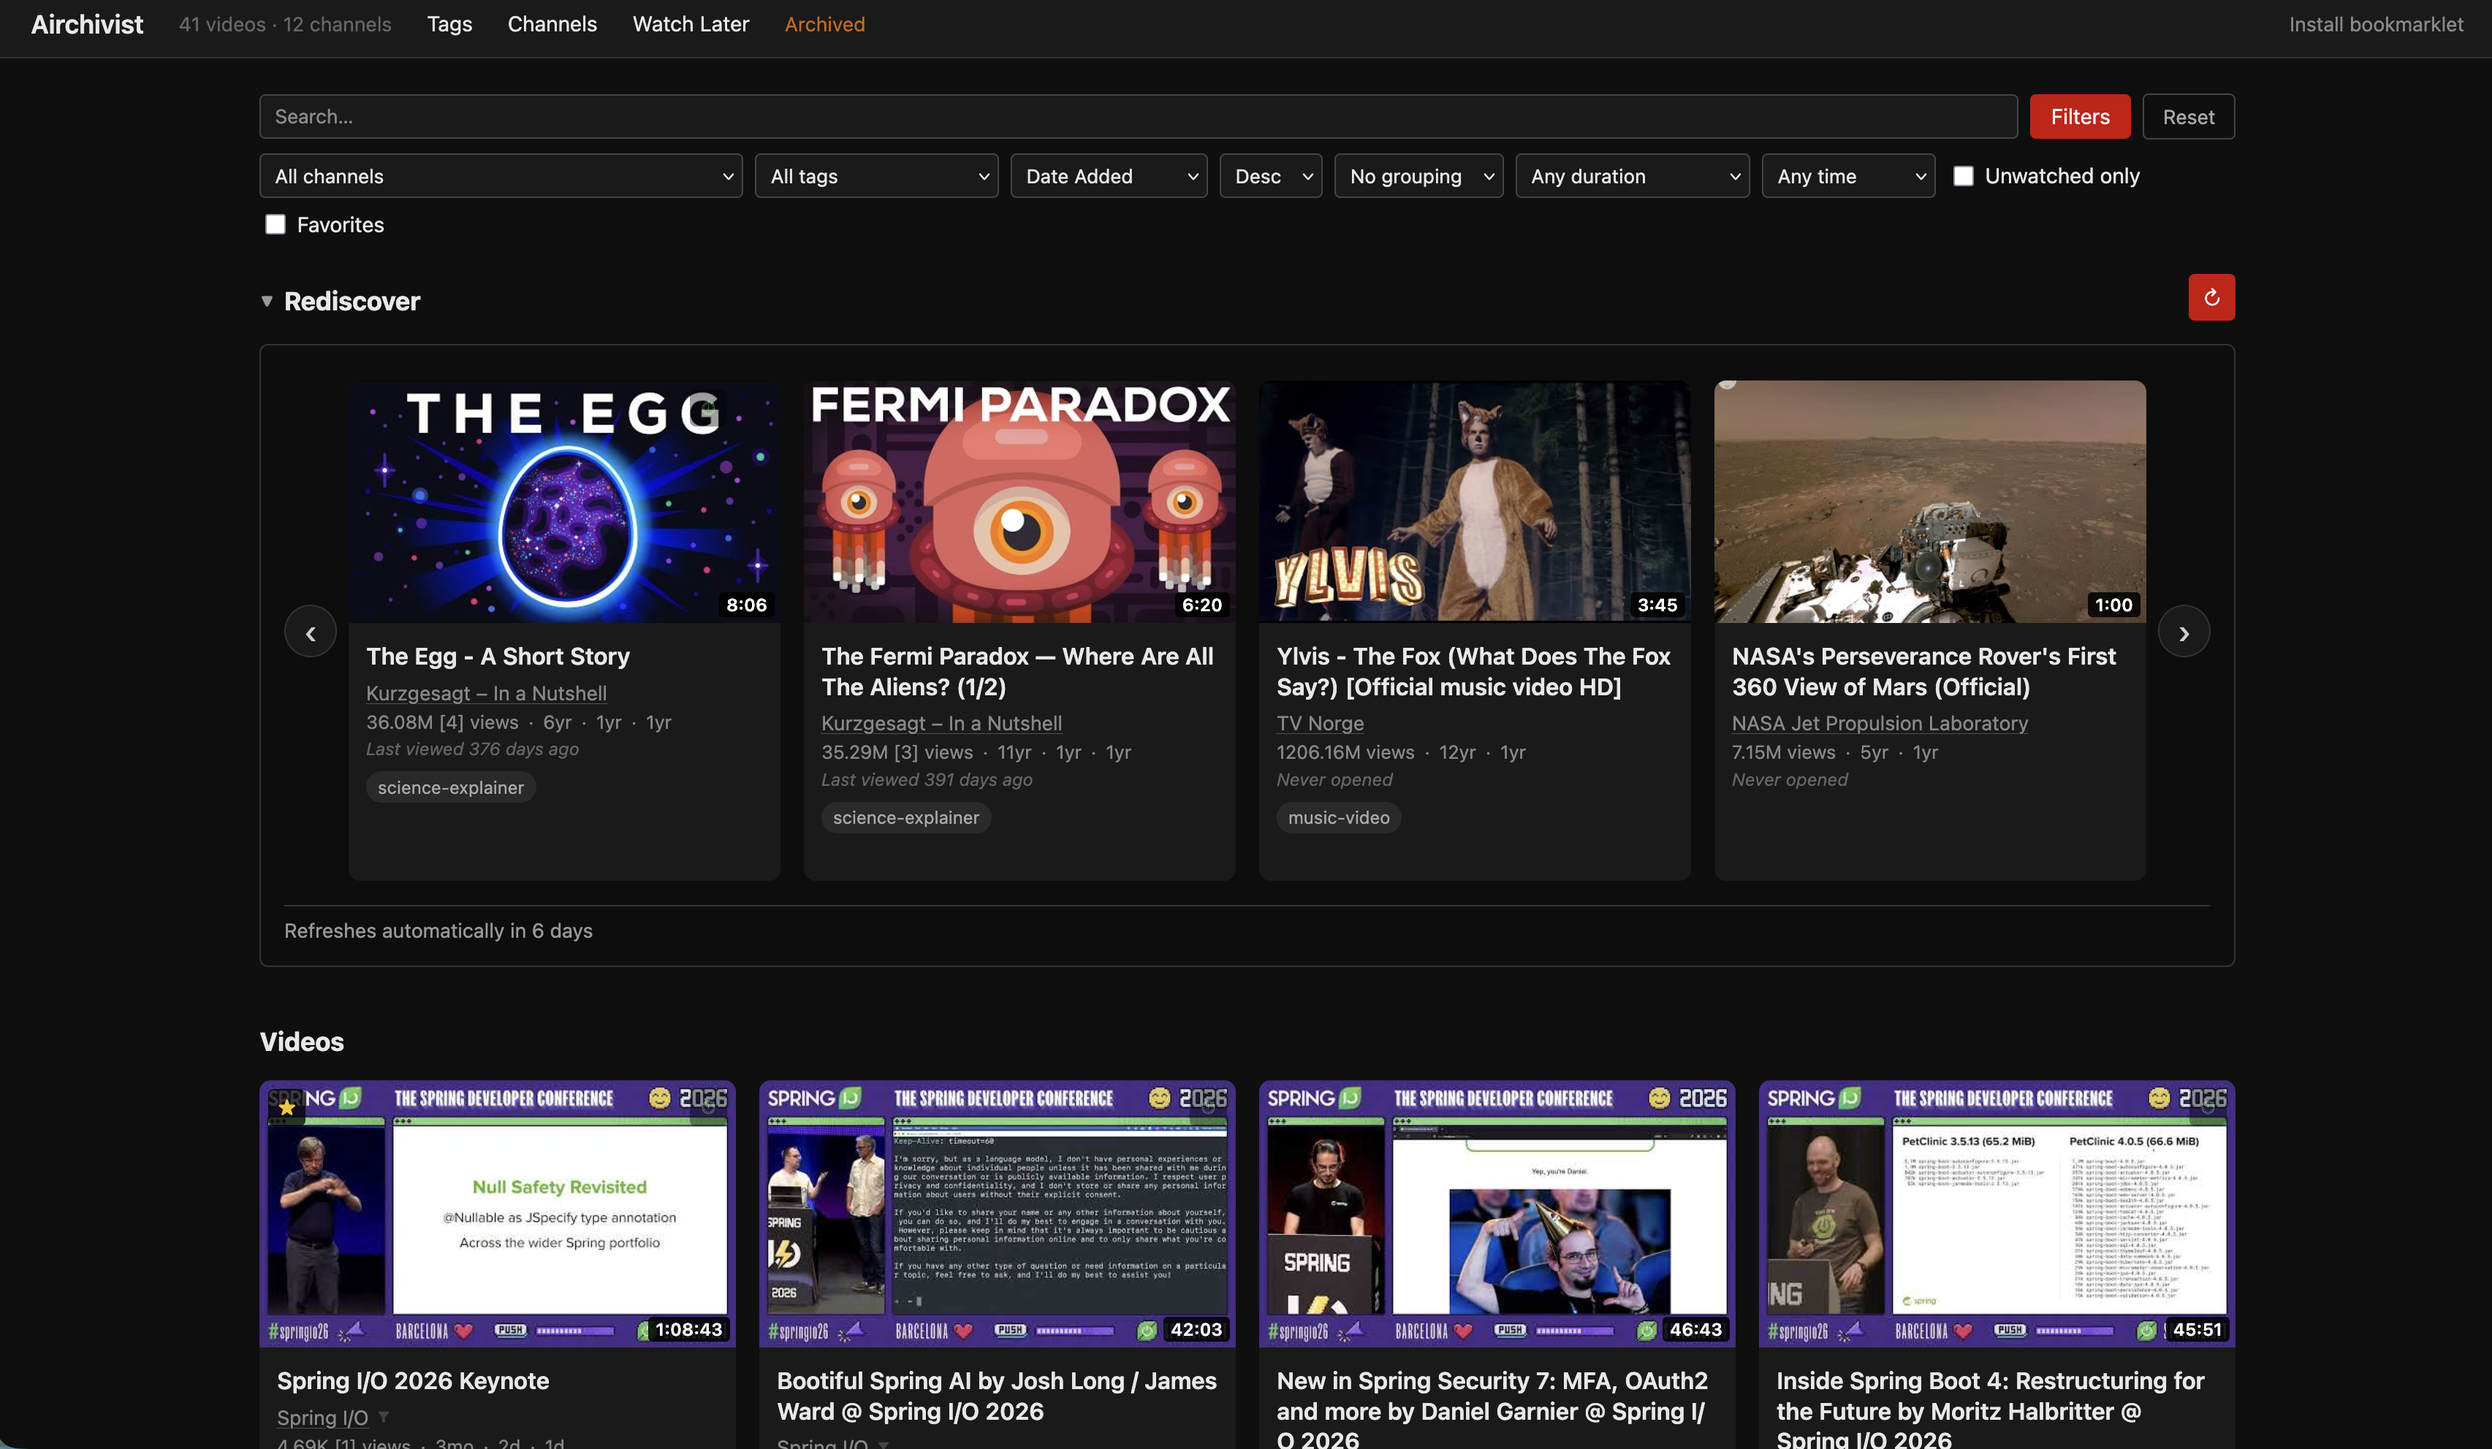
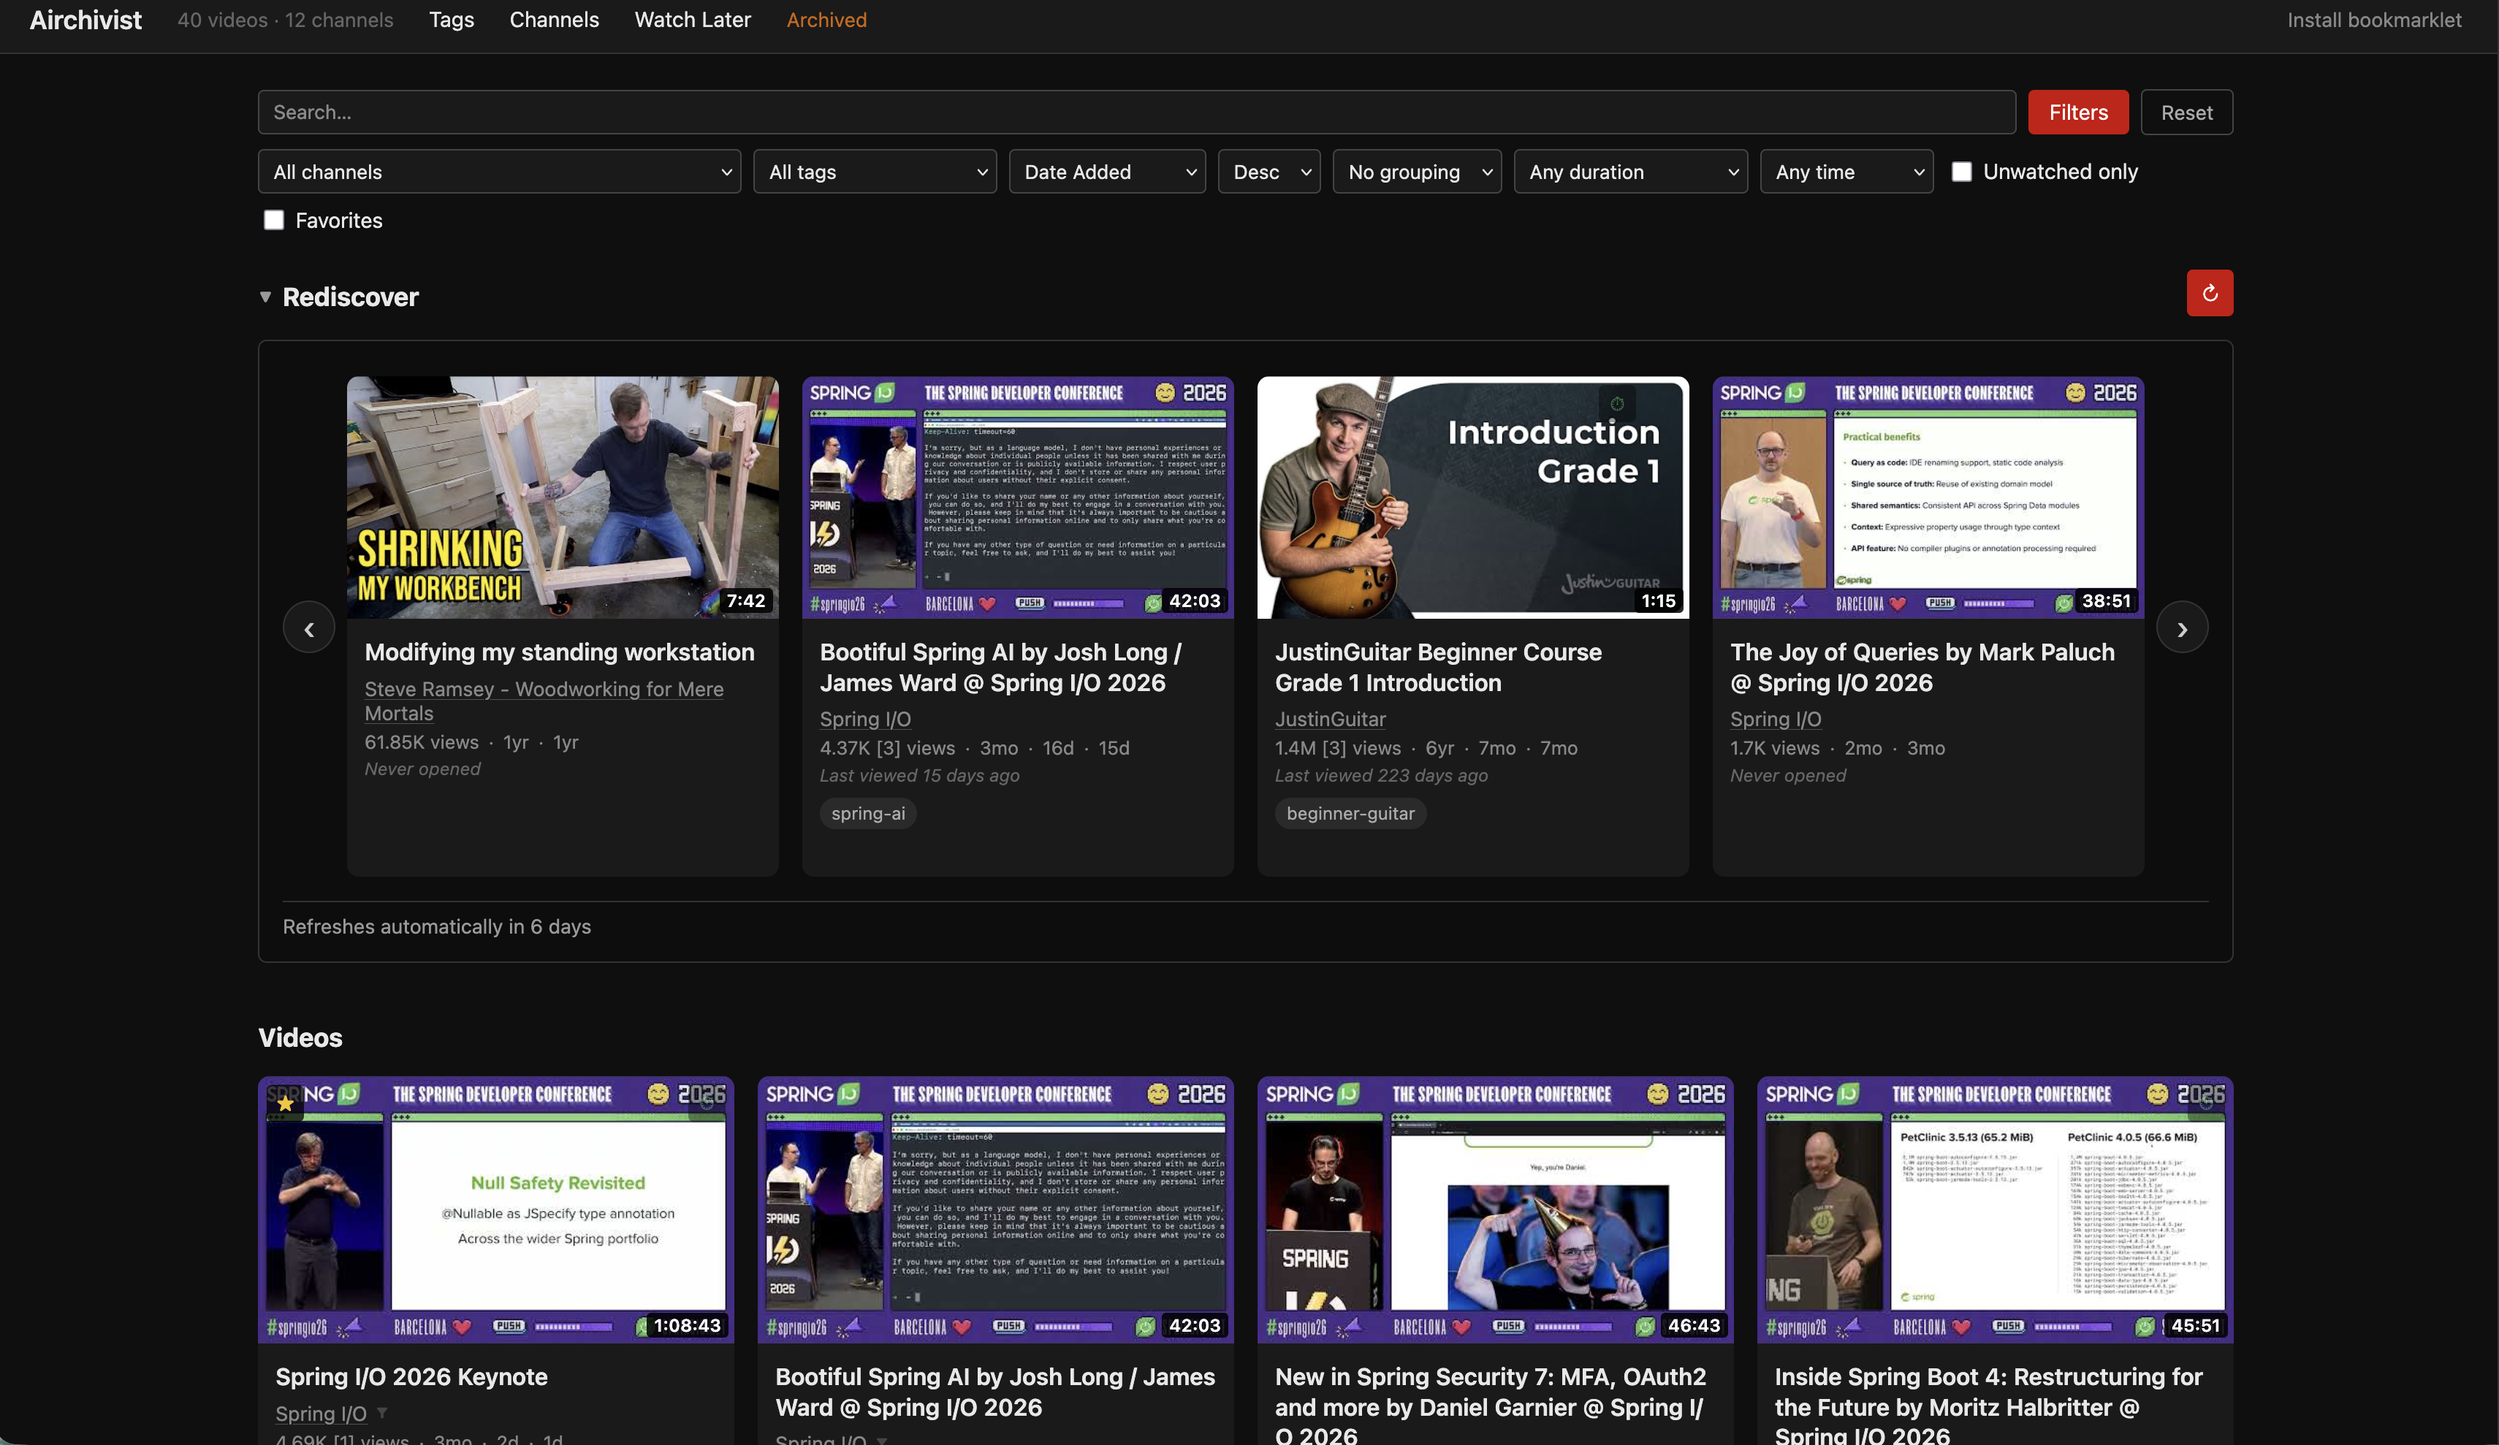
Tweak screenshots

diff --git a/scripts/seed_demo_db.py b/scripts/seed_demo_db.py
@@ -157,7 +157,7 @@ WATCH_LATER_VIDEO_IDS = [
     "4czjS9h4Fpg", "zfBkJggF9aU", "mvDj7DF1jsk", "iG9CE55wbtY",
 ]
 
-HIDDEN_VIDEO_IDS = ["QXQiGS9CL20", "YGpK6U56oHM", "XiOJRhikCBg"]
+HIDDEN_VIDEO_IDS = ["QXQiGS9CL20", "YGpK6U56oHM", "XiOJRhikCBg", "h6fcK_fRYaI"]
 
 # Previously-watched videos, spread from 2 weeks to ~17 months ago so the Rediscover
 # shelf has a real least-recently-viewed pool to draw from, not 1-2 eligible videos.

diff --git a/README.md b/README.md
@@ -28,13 +28,13 @@ Expect the commit history and docs to reflect this ongoing learning process.
 ## Screenshots with sample data loaded
 
 ### Main View (+ Rediscover shelf)
-![Favorites](demo-screenshots/airchivist.png)
+![Main View ( plus Rediscover shelf)](demo-screenshots/airchivist.png)
 
 ### Favorites
 ![Favorites](demo-screenshots/favorites.png)
 
 ### Channels
-![Favorites](demo-screenshots/channels.png)
+![Channels](demo-screenshots/channels.png)
 
 ## Prerequisites
 
